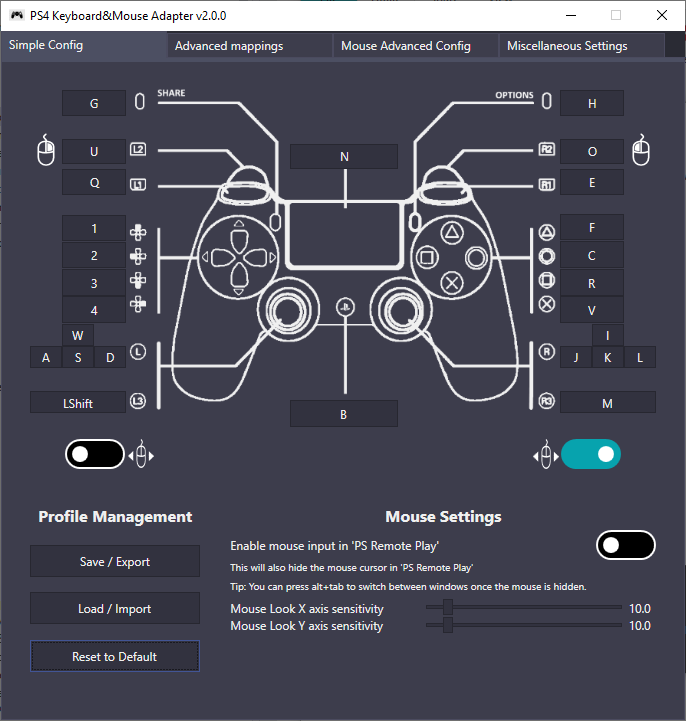
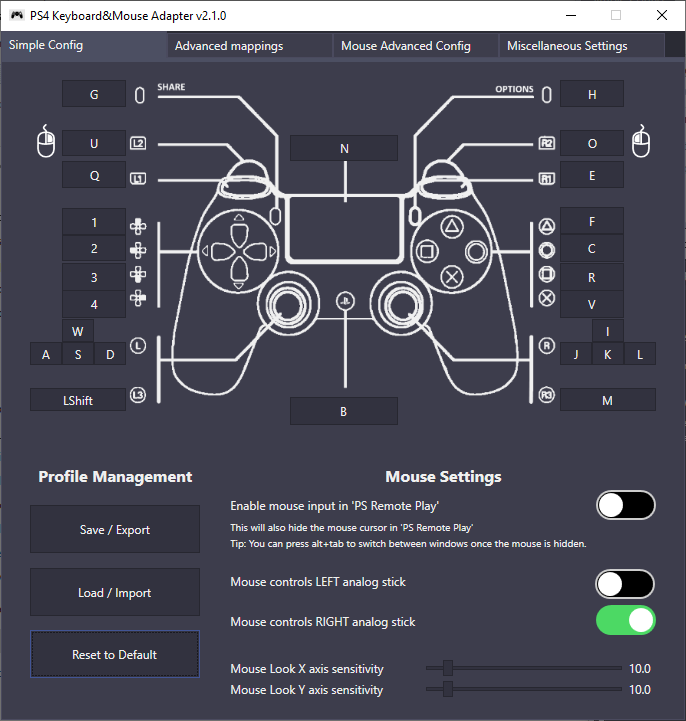
documentation text and image updates

diff --git a/README.md b/README.md
@@ -1,27 +1,27 @@
 # PS4 Keyboard and Mouse Adapter 
 Disclaimer: This project is not endorsed or certified by Sony, Playstation or any of their partners.
 
+
 ## UI
 
 Click the images for bigger views
 
-<a href="documentation/example-ui-1.png" target="_blank"><img src="documentation/example-ui-1.png" alt="example UI Tab 1" width="200"/></a>
-<a href="documentation/example-ui-2.png" target="_blank"><img src="documentation/example-ui-2.png" alt="example UI Tab 2" width="200"/></a>
-<a href="documentation/example-ui-3.png" target="_blank"><img src="documentation/example-ui-3.png" alt="example UI Tab 3" width="200"/></a>
-<a href="documentation/example-ui-4.png" target="_blank"><img src="documentation/example-ui-4.png" alt="example UI Tab 4" width="200"/></a>
+<a href="documentation/example-ui-1.png" target="_blank"><img src="documentation/example-ui-1.png" alt="example UI Tab 1" width="280"/></a>
+<a href="documentation/example-ui-2.png" target="_blank"><img src="documentation/example-ui-2.png" alt="example UI Tab 2" width="280"/></a>
+<a href="documentation/example-ui-3.png" target="_blank"><img src="documentation/example-ui-3.png" alt="example UI Tab 3" width="280"/></a>
+<a href="documentation/example-ui-4.png" target="_blank"><img src="documentation/example-ui-4.png" alt="example UI Tab 4" width="280"/></a>
+<a href="documentation/example-ui-4.png" target="_blank"><img src="documentation/example-ui-5.png" alt="example UI Tab 4" width="280"/></a>
 
 
 ## DOWNLOAD
-:rocket: Click --> [here (v1.0.11)](https://github.com/starshinata/PS4-Keyboard-and-Mouse-Adapter/releases/download/1.0.11/Setup.exe) <-- to Download!
+:rocket: Click Download!--> [here (v2.0.0)](https://github.com/starshinata/PS4-Keyboard-and-Mouse-Adapter/releases/download/2.0.0/Setup.exe)
+
+## Troubleshooting
+see [here](documentation/troubleshooting.md)
 
 
-## How to use
-1. Do NOT plug your DS4 controller into your PC while using this tool. If it is plugged already, unplug it because it will interfere with the device emulation.
-2. Make sure you've enabled remote play from your PS4's settings menu. To do that:
-  * Go to your PS4, select (Settings) -> [Remote Play Connection Settings], and then select the checkbox for [Enable Remote Play].
-  * To activate it as your primary PS4, select  (Settings) -> [Account Management] -> [Activate as Your Primary PS4] -> [Activate].
-3. Download and run the setup from the download link above. It will automatically do all the configuration stuff for you
-4. If you want 0 lag, connect your PS4 to your TV/Monitor and watch the game from there (thus NOT from the Remote Play app)
+## Frequently Asked Questions
+see [here](documentation/frequently-asked-questions.md)
 
 
 ## DISCORD
@@ -40,12 +40,8 @@ Try our discord here https://discord.gg/zH4b8p4 where you can either suggest ide
 * support chaikis
 
 
-## Frequently Asked Questions
-see [here](documentation/frequently-asked-questions.md)
-
-
 ## Documentation
-All documenation [here](documentation/)
+All documentation [here](documentation/)
 
 But some popular topics are
 * [Glossary and Terms](documentation/glossary-and-terms.md)

diff --git a/documentation/version-history.md b/documentation/version-history.md
@@ -3,12 +3,17 @@
 
 ### v 2.1.0
 * Stuff users will appreciate
-  * support for adding bindings to mouse wheel
-  * made the switches/toggles for Mouse controls analog stick Left/Right more explicit and obvious
-  * Toggles now use black/green to signify off/on (previously we used system colours, and if you had a system colour near black the toggle did not make sense)
+  * support for adding bindings to mouse wheel scroll
+  * switches/toggles for which analog stick is controlled by mouse
 
-* under the hood stuff
-  * updated build version management (so there is only a single truth for what is the current version)
+    * Added to "Mouse Advanced Config" tab,
+    * On "Simple Config" tab, relocated the switches (bottom right with the other mouse things)
+    * On "Simple Config" tab, added text, so the switches should be more obvious
+  * Switches/toggles now use black/green to signify off/on (previously we used system colours, and if you had a system colour near black the toggle was a little confusing)
+
+* Under the hood stuff
+  * updated build version management (so there is only a single truth for what the current version is)
+  * Fixed some bugs in the "advances mappings" screen, which hindered users from setting bindings
 
 
 ### v 2.0.0
